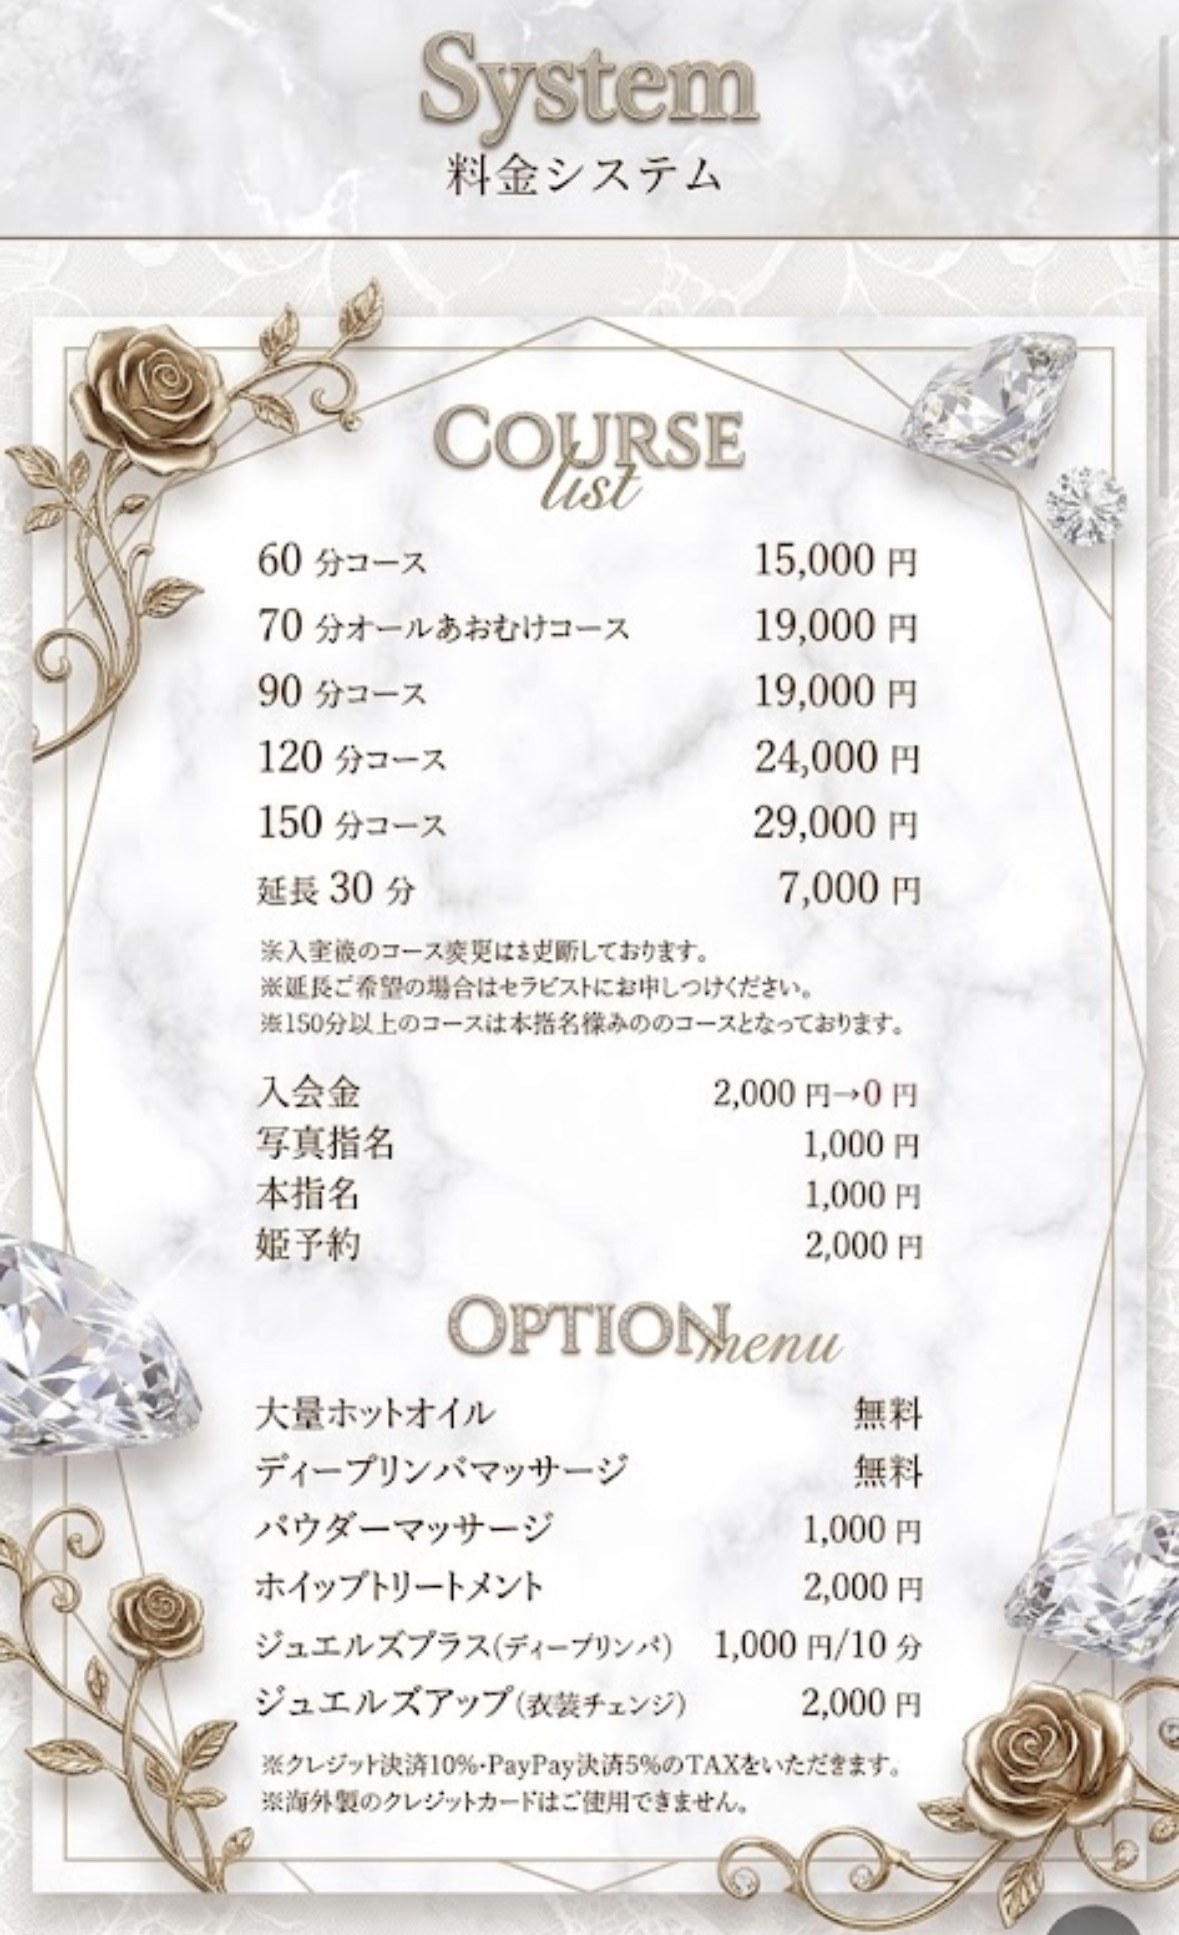
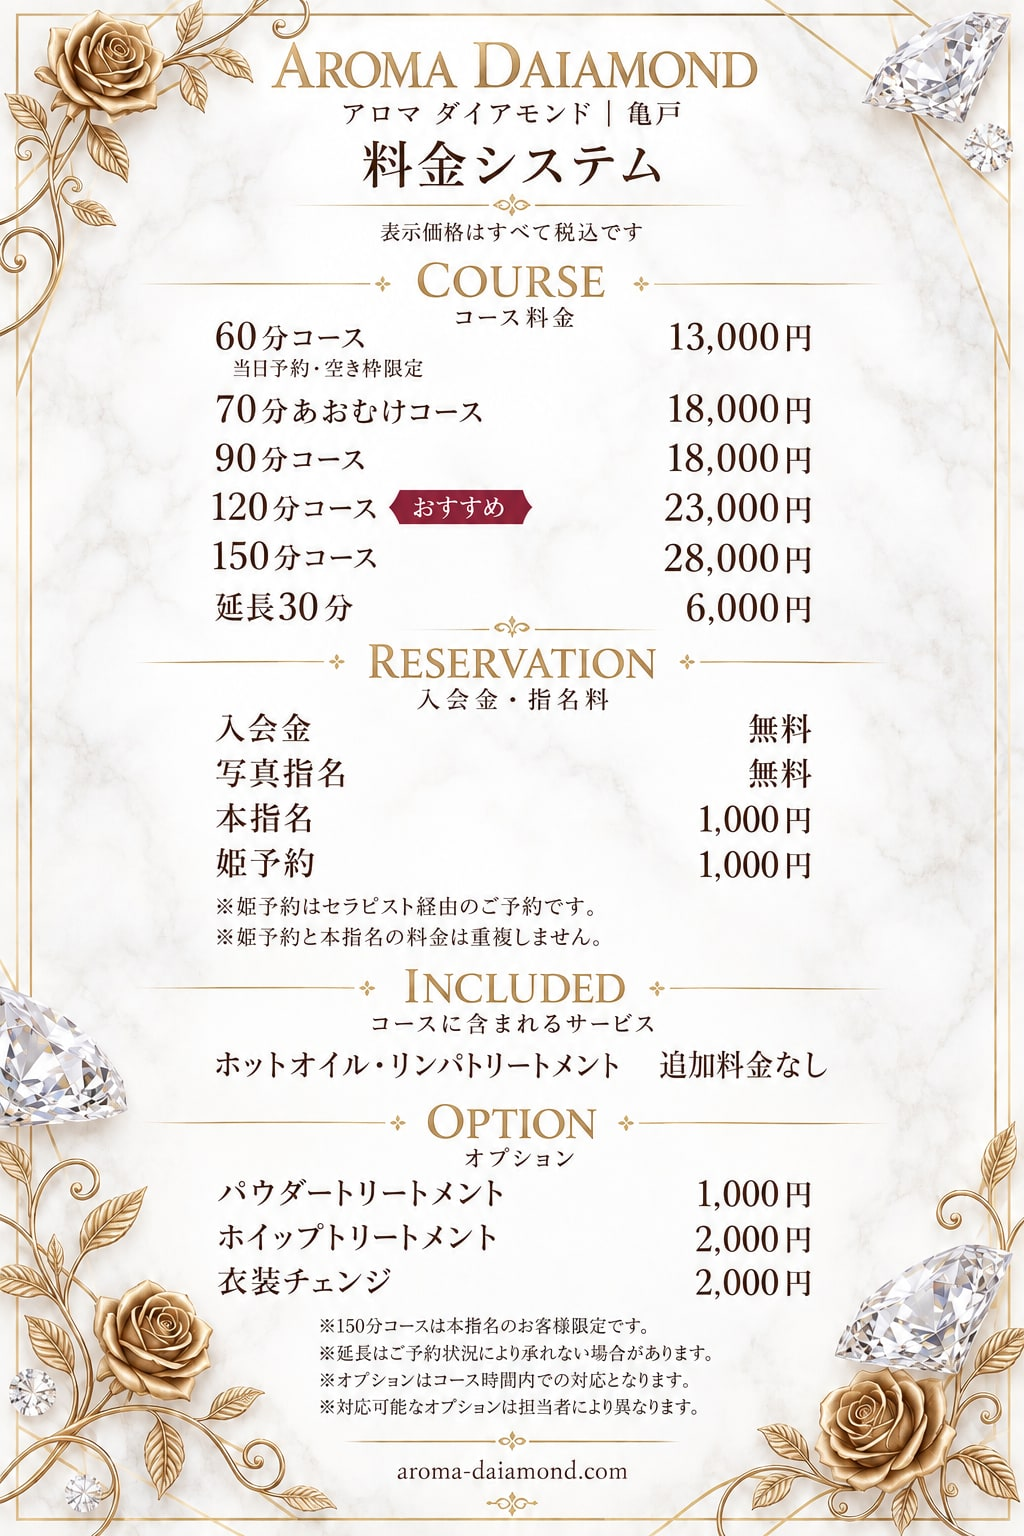
feat(pricing): コース料金を新料金表に更新（全箇所）
新しい料金システム画像に合わせ、全ての料金表を更新。

- public/system-price.jpg を新しい料金表画像に差し替え（?v= でキャッシュ無効化）
- 料金ページ本文(system) のコース詳細を新価格・新表記に更新
  60分13,000(当日予約・空き枠限定)/70分あおむけ18,000/90分18,000/
  120分23,000(おすすめ)/150分28,000(本指名)/延長30分6,000
- 予約フォーム(reserve-config) の料金を新価格に更新。新料金表に無い
  180〜480分の長時間コースは削除し、掲載メニュー(60/70/90/120/150分)に統一
- LINE予約ボット(line-booking.gs)の料金表も同様に更新
- priceRange を ¥15,000〜 → ¥13,000〜 に更新

Claude-Session: https://claude.ai/code/session_013rdcDW3T6DauSEha7QTFtT

diff --git a/app/_lib/site.js b/app/_lib/site.js
@@ -32,7 +32,7 @@ export const SITE = {
   openingHours: "Mo-Su 10:00-29:00",
   hoursBusiness: "10:00〜翌5:00", // 表示用（営業時間）
   hoursPhone: "9:30〜翌4:00", // 表示用（電話受付）
-  priceRange: "¥15,000〜",
+  priceRange: "¥13,000〜",
   description:
     "宝石のように美しいセラピスト達。極上の癒しと刺激の空間 men's esthetic AROMA DAIAMOND（アロマ ダイアモンド）亀戸。",
   ogImage: "hero-banner.jpg",
